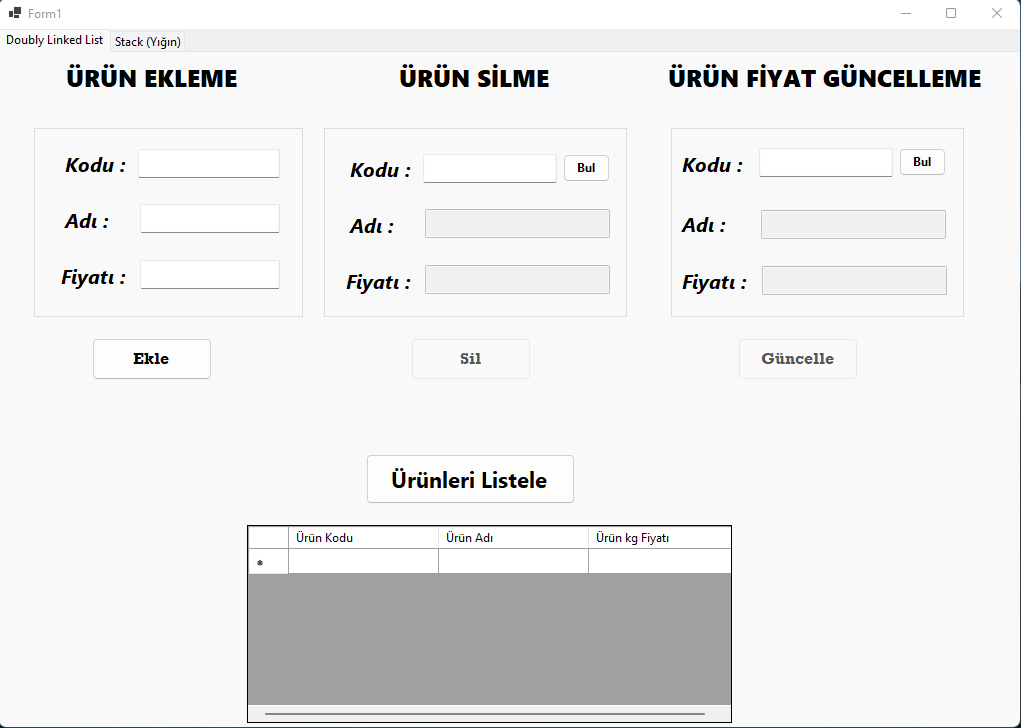
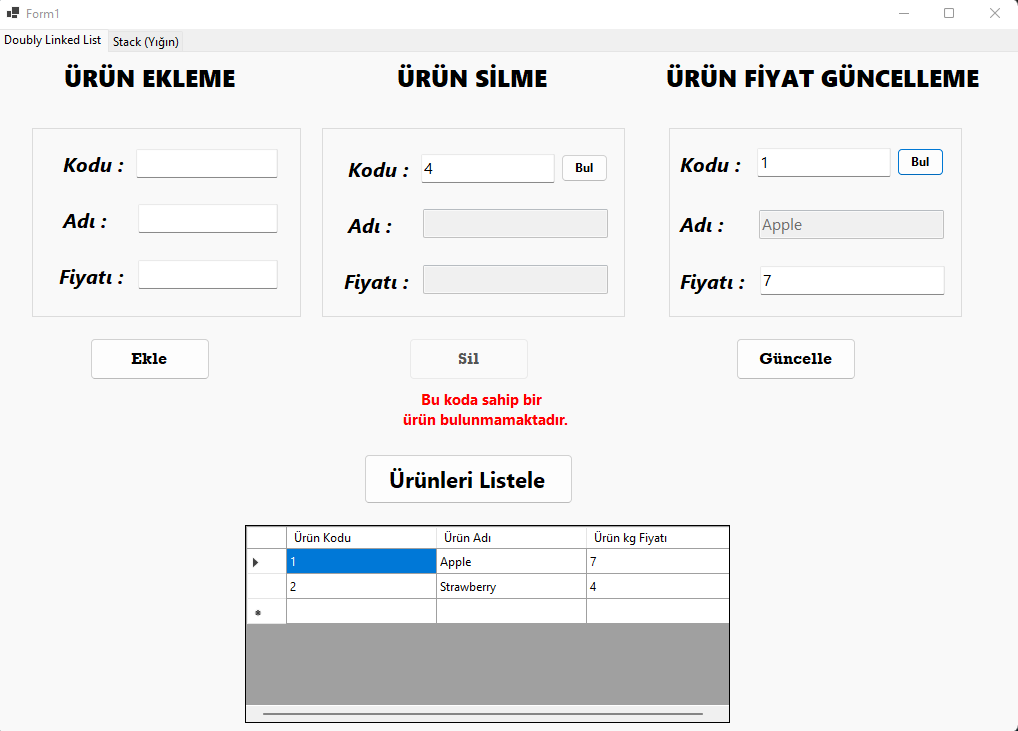
bugs fixed

diff --git a/CokluBaglıListe/Form1.Designer.cs b/CokluBaglıListe/Form1.Designer.cs
@@ -133,6 +133,7 @@ namespace CokluBaglıListe
             this.dataGridView.RowTemplate.Height = 25;
             this.dataGridView.Size = new System.Drawing.Size(485, 198);
             this.dataGridView.TabIndex = 47;
+            this.dataGridView.CellDoubleClick += new System.Windows.Forms.DataGridViewCellEventHandler(this.dataGridView_CellDoubleClick);
             // 
             // Column1
             // 
@@ -187,6 +188,7 @@ namespace CokluBaglıListe
             this.btnUrunleriListele.TabIndex = 44;
             this.btnUrunleriListele.Text = "Ürünleri Listele";
             this.btnUrunleriListele.UseVisualStyleBackColor = true;
+            this.btnUrunleriListele.Click += new System.EventHandler(this.btnUrunleriListele_Click);
             // 
             // groupBox2
             // 
@@ -212,6 +214,7 @@ namespace CokluBaglıListe
             this.urunGuncellemeBul.TabIndex = 31;
             this.urunGuncellemeBul.Text = "Bul";
             this.urunGuncellemeBul.UseVisualStyleBackColor = true;
+            this.urunGuncellemeBul.Click += new System.EventHandler(this.urunGuncellemeBul_Click);
             // 
             // label9
             // 
@@ -293,6 +296,7 @@ namespace CokluBaglıListe
             this.urunSilmeBul.TabIndex = 22;
             this.urunSilmeBul.Text = "Bul";
             this.urunSilmeBul.UseVisualStyleBackColor = true;
+            this.urunSilmeBul.Click += new System.EventHandler(this.urunSilmeBul_Click);
             // 
             // label6
             // 
@@ -441,6 +445,7 @@ namespace CokluBaglıListe
             this.btnGüncelle.TabIndex = 39;
             this.btnGüncelle.Text = "Güncelle";
             this.btnGüncelle.UseVisualStyleBackColor = true;
+            this.btnGüncelle.Click += new System.EventHandler(this.btnGüncelle_Click);
             // 
             // label12
             // 
@@ -462,6 +467,7 @@ namespace CokluBaglıListe
             this.btnSil.TabIndex = 37;
             this.btnSil.Text = "Sil";
             this.btnSil.UseVisualStyleBackColor = true;
+            this.btnSil.Click += new System.EventHandler(this.btnSil_Click);
             // 
             // label5
             // 
@@ -482,6 +488,7 @@ namespace CokluBaglıListe
             this.btnEkle.TabIndex = 35;
             this.btnEkle.Text = "Ekle";
             this.btnEkle.UseVisualStyleBackColor = true;
+            this.btnEkle.Click += new System.EventHandler(this.btnEkle_Click);
             // 
             // label1
             // 
